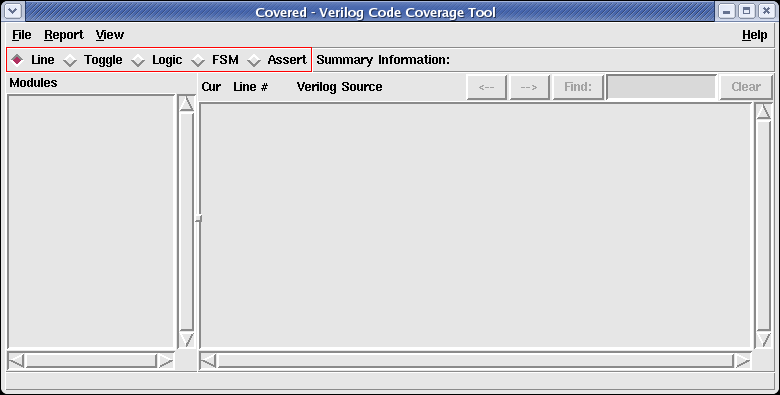
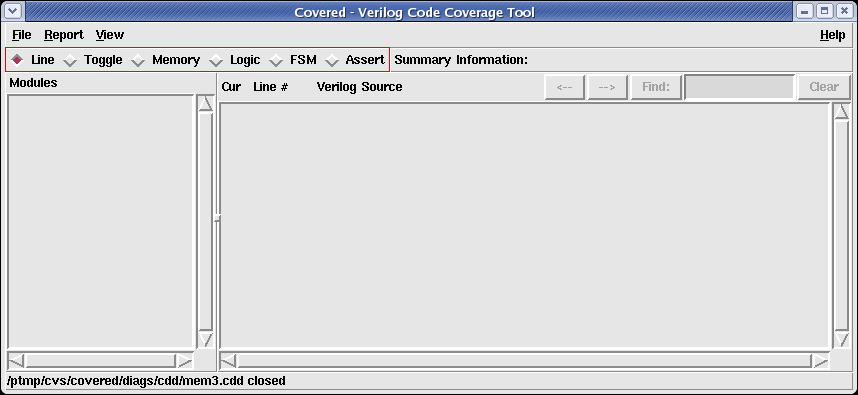
Updating lots of GUI documentation and images for addition of memory coverage and to update some parts that were incorrect.

diff --git a/doc/gui/memory.html b/doc/gui/memory.html
@@ -12,43 +12,138 @@
   <a href="comb.html">Next &gt;</a>
 </div>
 <hr>
-<h1>Navigating the Memory Coverage Window - TBD</h1>
+<h1>Navigating the Memory Coverage Window</h1>
 <hr>
 
 <p>
-The verbose toggle window allows the user to see which bits for a given signal have
-toggled from a 0->1 or a 1->0 during simulation.  To display this window, simply click
-on a highlighted/underlined uncovered signal in the 
+The verbose memory window allows the user to interactively view all of the coverage
+information for a selected memory, including the following for each addressable memory
+element:
+</p>
+
+<p>
+<ol>
+  <li> Have all bits toggled from 0 -> 1 and from 1 -> 0? </li>
+  <li> Has the entry been written? </li>
+  <li> Has the entry been read? </li>
+</ol>
+</p>
+
+<p>
+To display this window, simply click on a highlighted/underlined uncovered memory in the 
 <a href="cov_view.html">Coverage Viewer</a> of the main window.  This will cause the 
-verbose toggle viewer to be created for the specified signal as well as display a 
-"-->" symbol in the Coverage Viewer on the same line as the selected signal.  This
-symbol is simply meant to help the user identify in the Coverage Viewer which signal
-is currently displayed in the Toggle Viewer window.  Figure 1 shows the Toggle Viewer
-loaded with a 4-bit signal called "err_vec" in which bits 3:2 have successfully toggled 
-from a 0->1.
+verbose memory viewer to be created for the specified memory as well as display a 
+"-->" symbol in the Coverage Viewer on the same line as the selected memory.  This
+symbol is simply meant to help the user identify in the Coverage Viewer which memory
+is currently displayed in the Memory Viewer window.  Figure 1 shows the Memory Viewer
+loaded with a 4-dimensional memory called "mem" in which two of the dimensions are
+unpacked (all combinations of unpacked dimensions make up the total number of addressable
+elements in the memory), creating a total of 18 addressable elements.  The first addressable
+element "[0][0]" is shown in the lower frame in which only a single bit has been toggled from
+0 -> 1, the element has been written, but it has not been read.
 </p>
 
 <div align="center">
-<p><strong>Figure 1.  Verbose Toggle Window</strong></p>
-<img src="images/toggle_full.png" alt="Verbose Toggle Window">
+<p><strong>Figure 1.  Verbose Memory Window</strong></p>
+<img src="images/memory_full.png" alt="Verbose Memory Window">
 </div>
 
 <h2>Understanding the Layout</h2>
 
 <p>
-The bit vector displayed is a binary bit vector, each value (0 or 1) represents whether
-that bit in the signal either toggled (1) or did not toggle (0) during simulation.  There
-are two bit vectors displayed for the signal, the top vector shows the 0->1 toggle
-information while the bottom vector shows the 1->0 toggle information.
+The Memory Coverage window is split up into three main frames stacked from top to bottom.  These
+frames, in order from top to bottom, are the "Addressable Memory Elements" frame, the "Element
+Coverage" frame, and the button frame.  Each are described in detail below.
+</p>
+
+<h3>Addressable Memory Elements Frame</h3>
+
+<p>
+The uppermost frame contains all of the addressable memory elements (AMEs) of the memory.  An AME
+is a single memory entry that is addressed by specifying a unique combination of values for each
+of the unpacked dimensions of the memory.  For example, consider the following memory:
 </p>
 
 <p>
-The name of the signal along with its MSB:LSB information is displayed at the bottom
-of the window; however, if the mouse cursor is placed over a specific bit in the toggle
-box, the MSB:LSB will be changed to show the displayed bit, making it easy for the user
-to discern exactly which bit has toggled/not toggled.  If the width of the signal
-exceeds the given space for the toggle window, a scrollbar will be allowed to slide
+<code>
+  reg [15:0] foo[0:1][0:3];
+</endcode>
+</p>
+
+<p>
+This memory called "foo" contains three dimensions.  One packed dimension which is a 16-bit little
+endian value and two unpacked dimensions, containing two entries of four entries (for a total of eight
+addressable memory elements).  Each AME being 16 bits wide.  The AMEs for this memory would be:
+</p>
+
+<p>
+<ul>
+  <li> foo[0][0] </li>
+  <li> foo[0][1] </li>
+  <li> foo[0][2] </li>
+  <li> foo[0][3] </li>
+  <li> foo[1][0] </li>
+  <li> foo[1][1] </li>
+  <li> foo[1][2] </li>
+  <li> foo[1][3] </li>
+</ul>
+</p>
+
+<p>
+The upper frame will contain all of the AMEs for the selected memory.  The uncovered
+AMEs will be highlighted in the uncovered color scheme (as specified in the
+<a href="pref_color.html">Preferences window</a>) while all fully covered AMEs will remain
+unhighlighted.  To view the coverage information for any uncovered AME, simply click on it
+and the information will be viewable in the "Element Coverage" frame below it.
+</p>
+
+<h3>Element Coverage Frame</h3>
+
+<p>
+The Element Coverage frame shows all of the coverage information for the currently selected
+AME including toggle coverage (which bits of the element toggled from 0->1 and 1->0), write
+coverage (was this entry written to) and read coverage (was this entry accessed).  
+</p>
+
+<p>
+The bit vector displayed in the toggle window is a binary bit vector, where each value
+(0 or 1) represents whether that bit in the signal either toggled (1) or did not toggle
+(0) during simulation.  There are two bit vectors displayed for the AME, the top vector
+shows the 0->1 toggle information while the bottom vector shows the 1->0 toggle information.
+</p>
+
+<p>
+The name of the memory along with its dimensional range information is displayed below the
+toggle window; however, if the mouse cursor is placed over a specific bit in the toggle
+box, the packed dimensional range information will be changed to show the displayed bit, making
+it easy for the user to discern exactly which bit has toggled/not toggled.  If the width of the
+AME exceeds the given space for the toggle window, a scrollbar will be allowed to slide
 left and right to view the rest of the toggle information.  
+</p>
+
+<p>
+Below the memory name are two other pieces of coverage information about the AME.  The value to
+the right of the "Written:" label will be set to either "Yes" or "No".  If the value is "Yes",
+this indicates that the currently selected AME was written during simulation and value will be
+highlighted with the covered color scheme (as selected in the 
+<a href="pref_color.html">Preferences window</a>).  If the value is "No", this indicates that
+the currently selected AME was not written during simulation and the value will be highlighted
+with the uncovered color scheme.
+</p>
+
+<p>
+To the right of the "Written" information is the "Read label which will also be set to either
+a value of "Yes" or "No".  If the value is "Yes", this indicates that the currently selected AME
+was accessed during simulation and the value will be highlighted with the covered color scheme.
+If the value is "No", this indicates that the currently selected AME was not accessed during
+simulation and the value will be highlighted with the uncovered color scheme.
+</p>
+
+<h3>Button Frame</h3>
+
+<p>
+The button frame contains buttons for closing the Memory Coverage window, displaying this help page,
+or moving to the next/previous uncovered memory in the same module/instance.
 </p>
 
 <p>
@@ -56,45 +151,45 @@ To exit this window, simply click on "Close" button.  To see this help page from
 toggle window, click on the "Help" button.
 </p>
 
-<h2>Excluding/Including a Signal for Toggle Coverage</h2>
+<h2>Excluding/Including a Memory for Memory Coverage</h2>
 
 <p>
-The user may exclude/include any uncovered signal in the design for toggle coverage by simply clicking
-on the "Excluded" checkbutton.  If this checkbutton is checked, the summary coverage information
-will automatically be recalculated and redisplayed in the <a href="summary_bar.html">Main Window
-Summary Bar</a> and the background color of the underlined signal in the
-<a href="cov_view.html">Main Window File Viewer</a> will change from the uncovered background color to the
-covered background color.  However, the signal will still remain underlined, allowing the user to see
-the verbose toggle coverage information, if necessary.  If the "Excluded" checkbutton is unchecked,
-the summary coverage information and background colors will be readjusted to include the coverage information
-for this signal.
+The user may exclude/include any uncovered memory in the design for memory coverage by simply clicking
+on the "Excluded" checkbutton in the upper right-hand portion of the Memory Coverage window.  If this
+checkbutton is checked, the summary coverage information will automatically be recalculated and
+redisplayed in the <a href="summary_bar.html">Main Window Summary Bar</a> and the background color of
+the underlined memory in the <a href="cov_view.html">Main Window File Viewer</a> will change from the
+uncovered background color to the covered background color.  However, the memory will still remain
+underlined, allowing the user to see the verbose memory coverage information, if necessary.  If the
+"Excluded" checkbutton is unchecked, the summary coverage information and background colors will be
+readjusted to include the coverage information for this memory.
 </p>
 
 <p>
-If the user excludes any signal for toggle coverage in the design, the "Save CDD..." option in the
+If the user excludes any memory for memory coverage in the design, the "Save CDD..." option in the
 <a href="file_menu.html">File Menu</a> will be enabled.  This allows the user to save the excluded property
 either back to the CDD file (or to a newly named CDD file).  Doing so will allow the user to load the
-CDD file at a different time and retain the knowledge of which signals have been excluded/included
-for toggle coverage.  Additionally, if a saved CDD file with coverage exclusion is merged with another CDD file,
-the excluded signal information is preserved for the resulting merged CDD file.
+CDD file at a different time and retain the knowledge of which memories have been excluded/included
+for memory coverage.  Additionally, if a saved CDD file with coverage exclusion is merged with another CDD file,
+the excluded memory information is preserved for the resulting merged CDD file.
 </p>
 
-<h2>Displaying a New Signal</h2>
+<h2>Displaying a New Memory</h2>
 
 <p>
-If the Verbose Toggle Coverage window is currently displayed with a signal, the user may
-select a new signal in the <a href="cov_view.html">Coverage File Viewer</a> of the Main
-window.  When a new signal is selected, its value immediately replaces the currently
-selecting signal value.  This feature allows many different signals to be viewed one
-after the other without having to create/destroy a new window for each signal.
+If the Verbose Memory Coverage window is currently displayed with a memory, the user may
+select a new memory in the <a href="cov_view.html">Coverage File Viewer</a> of the Main
+window.  When a new memory is selected, its value immediately replaces the currently
+selecting memory value.  This feature allows many different memories to be viewed one
+after the other without having to create/destroy a new window for each memory.
 </p>
 
 <p>
-The user may also see the previous or next uncovered signal in the main viewer by clicking
-either the "<--" button (for previous signal viewing) or the "-->" button (for next signal
-viewing).  Note that the "<--" button will be disabled if there is not a signal previous
-to the current signal in the given module and the "--> button will be disabled if there is
-not a signal after the current signal in the given module.
+The user may also see the previous or next uncovered memory in the main viewer by clicking
+either the "<--" button (for previous memory viewing) or the "-->" button (for next memory
+viewing).  Note that the "<--" button will be disabled if there is not a memory previous
+to the current memory in the given module and the "--> button will be disabled if there is
+not a memory after the current memory in the given module.
 </p>
 
 </body>

diff --git a/doc/gui/pref_report.html b/doc/gui/pref_report.html
@@ -43,6 +43,13 @@ purposes.  These categories are described below
 		number of characters allowed on a given line.  Only valid numbers will be
 		allowed to be entered in this field.  Attempting to enter a non-numerical value will
 		cause a bell sound to occur and no value will be entered in the entry field.</p></li>
+        <li>Suppress Modules/Instances from Output<b>
+                <p>
+                By default, all modules simulated for coverage will appear in reports for all selected
+                metrics; however, for modules/instances that contain no coverage information, their
+                appearance in the coverage reports can add more information than is necessary.  If the
+                user wants to omit any modules/instances that contain no coverage information (either
+                covered or uncovered), select this option.</p></li>
 	<li><b>Level of Detail</b>
 		<p>
       This set of options allows the user to generate a summary report, a detailed report

diff --git a/doc/gui/report_gen.html b/doc/gui/report_gen.html
@@ -72,6 +72,11 @@ various options to the report generator are the following:
    	readable.  The possible values are 'Preformatted' (to indicate that the line widths should
    	be preserved from the original source code) or 'X characters' where X indicates an integer
    	value greater than 0.  Please see the Covered User's Guide for more information.</p></li>
+   <li><b>Suppress Empty Modules</b>
+        <p>
+        This value indicates where module/instances that contain no coverage information should still
+        be output to the report (where they will indicate 100% coverage complete in the summary
+        information for each metric).</p></li>
 </ul>
 
 <h3>Save To File Frame</h3>

diff --git a/doc/gui/cov_bar.html b/doc/gui/cov_bar.html
@@ -17,7 +17,7 @@
 
 <p>
 Figure 1. shows the location of the coverage type view bar.  The bar is split up into 
-the five main types of coverage metrics that Covered can provide:  line, toggle, 
+the five main types of coverage metrics that Covered can provide:  line, toggle, memory,
 logic (combinational logic), FSM (state and arc) and assert (assertion coverage).  When 
 the Covered GUI is first invoked, the line coverage metric is the default mode.  To view 
 a different metric, simply left click on the button to the left of the metric name.  Doing 
